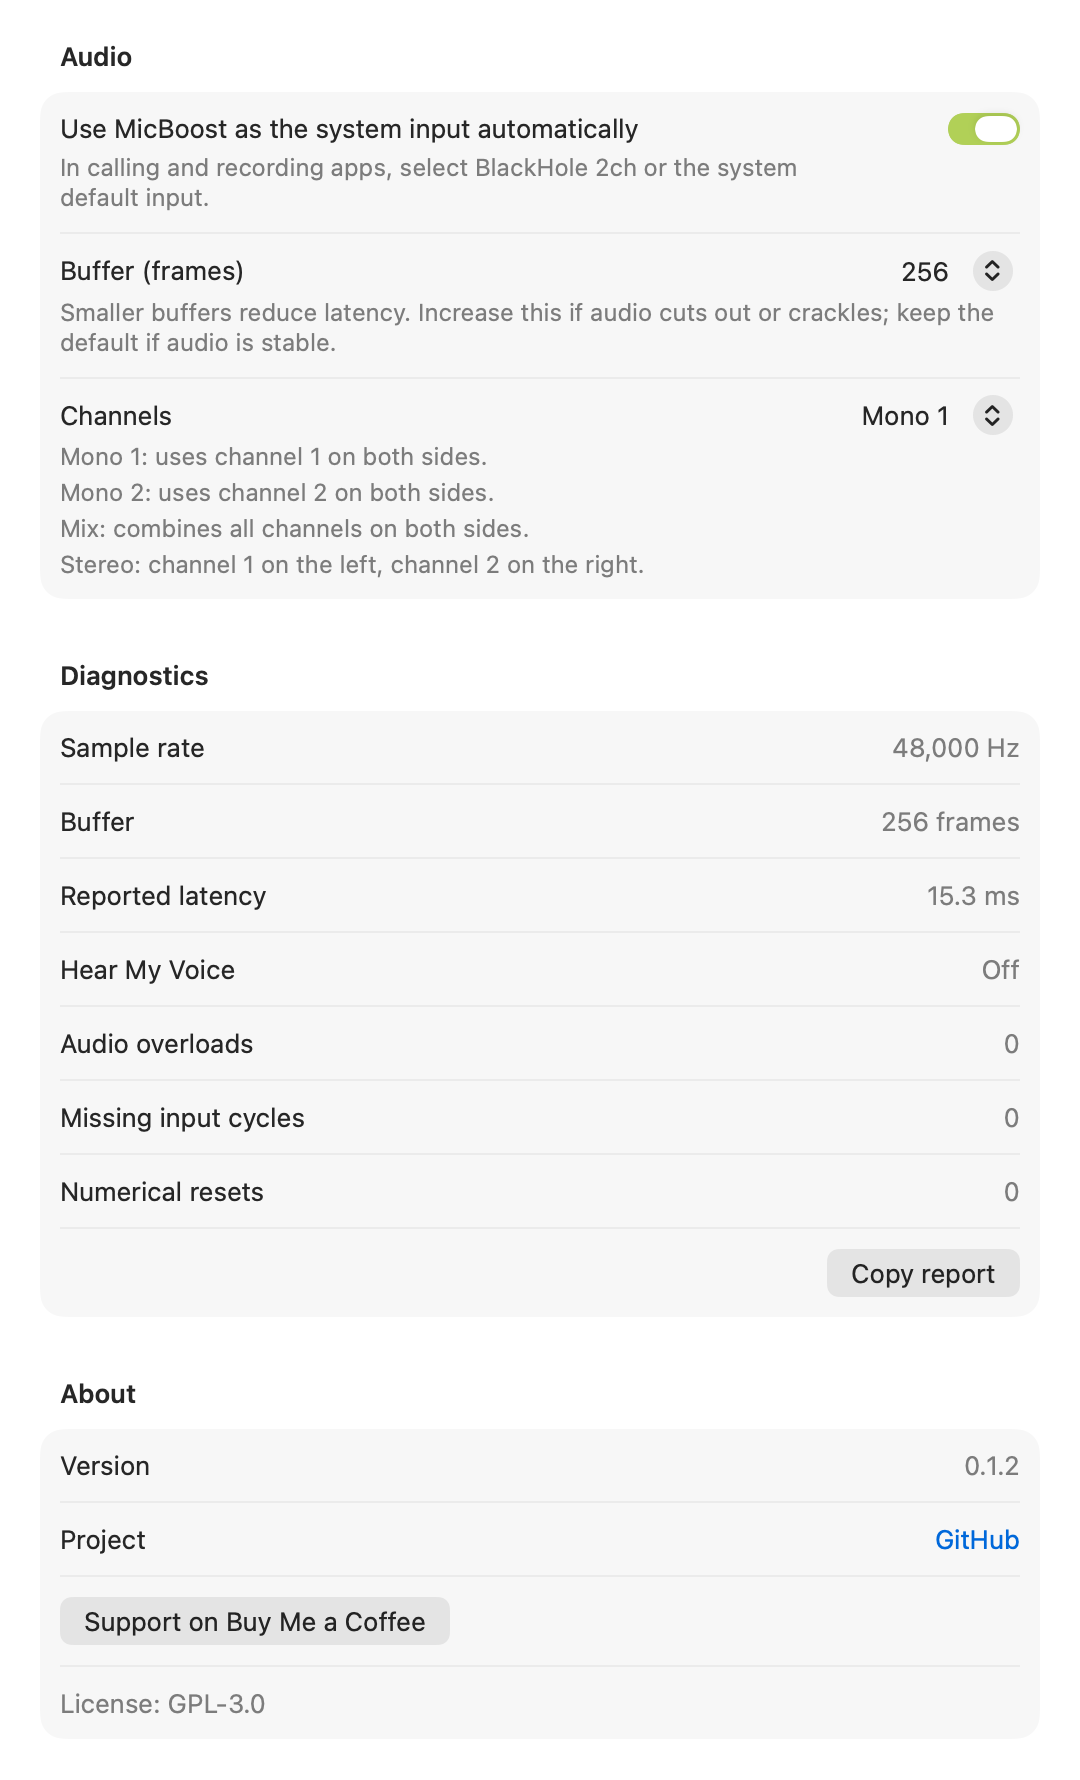
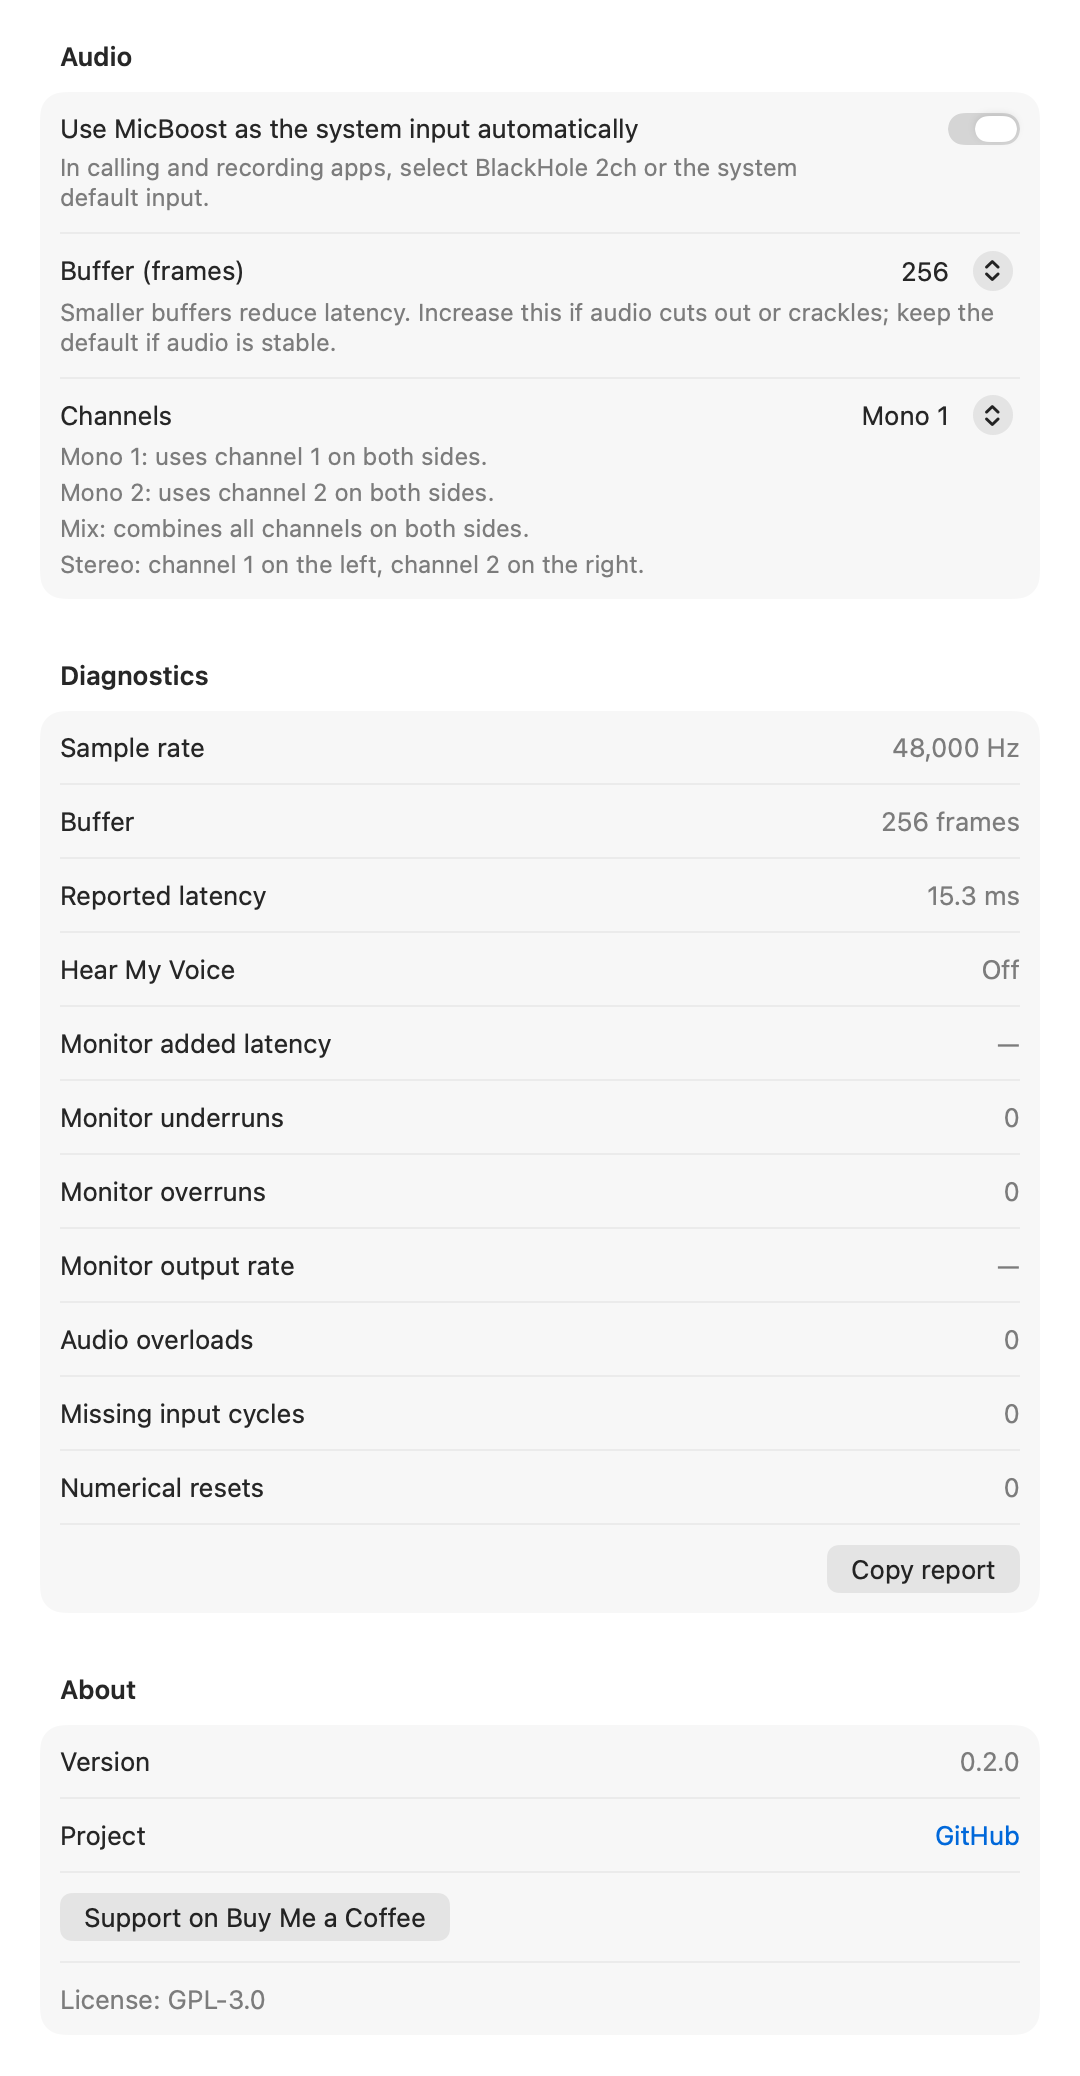
Document system monitor conversion and offline verification

diff --git a/docs/testing.md b/docs/testing.md
@@ -74,7 +74,7 @@ CLI para verificar o hardware. `run` e `latency` aceitam `--gain-db N`, `--mute`
 | `micboost-diag run --input <uid> [--buffer N] [--seconds N] [--monitor --monitor-silent]` | Roda o motor sem UI (mesmo `EngineController` do app), imprimindo estado e contadores a cada segundo e cada transição de estado com o instante. Não altera a entrada ou saída padrão; integração com a política de entrada padrão fica para o app |
 | `micboost-diag capture --device <uid> --seconds N --out file.wav` | Grava a entrada bruta de um dispositivo |
 | `micboost-diag latency --input <uid> [--trials N]` | Mede a latência adicional (método abaixo) |
-| `micboost-diag monitor-latency --input <uid> [--output <uid>] [--buffer N] [--trials N]` | Mede silenciosamente a latência adicionada pelo MicBoost (fonte → BlackHole com monitor no agregado) e imprime a estimativa física total como contexto, [método abaixo](#medição-de-latência-do-monitor). Sem `--output`, usa a saída padrão; exige mantenedor presente se a saída forem os alto-falantes do Mac |
+| `micboost-diag monitor-latency --input <uid> [--output <uid>] [--buffer N] [--seconds N]` | Mede silenciosamente a latência adicionada do monitor pelos timestamps do callback, ocupação, correção e underruns/overruns; imprime a estimativa física total como contexto, [método abaixo](#medição-de-latência-do-monitor). Sem `--output`, usa a saída padrão; exige mantenedor presente se a saída forem os alto-falantes do Mac |
 | `micboost-diag soak --input <uid> [--minutes N]` (padrão 20) | Ensaio de estabilidade (abaixo) |
 
 `set-rate` limita a taxa às `AvailableNominalSampleRates` do dispositivo, escreve `kAudioDevicePropertyNominalSampleRate` e espera até 1 s pelo valor aplicado, porque a HAL aplica a mudança de forma assíncrona. Se o dispositivo mantiver outra taxa (por exemplo, enquanto é subdispositivo de um agregado em uso), imprime o valor real e sai com erro. `run` imprime uma linha `event state=… t_ms=…` por transição, o que dá o tempo de retorno a `running`.
@@ -162,69 +162,61 @@ Preparação para todos os itens: app aberto com processamento ligado, microfone
 
 ## Resultados registrados
 
-### Modo monitor — 04/11/2026
+### Fila e conversão do monitor — 04/11/2026
 
-MacBook Neo, fonte `BuiltInMicrophoneDevice`, saída padrão `BuiltInSpeakerDevice`,
-48 kHz. Os ensaios com monitor silencioso e a escuta manual estão **pendentes** de
-sessão com o mantenedor. Nenhum ensaio com monitor é autorizado sem sua presença
-quando a saída forem os alto-falantes do Mac.
+Verificação **offline**, sem dispositivo de saída, pela cadeia C → Varispeed → AUConverter,
+com senoide de 1 kHz a amplitude 0,25. O teste ajusta a Varispeed durante a renderização
+para ambos os sinais de correção e volta ao valor analisado antes da janela de medição.
+THD+N calculado por ajuste de seno/cosseno de 1 segundo; frequência esperada inclui a
+correção. Nenhum comando com monitor foi executado em hardware.
 
-Decomposição somente leitura por `swift run micboost-diag devices`:
-
-| Parcela | Dispositivo | Safety | Stream | Total |
+| Conversão | Correção | THD+N | Maior passo na janela | Latência das unidades |
 |---|---:|---:|---:|---:|
-| Entrada interna | 26 | 48 | 1439 | 1513 frames (31,521 ms) |
-| Saída interna | 69 | 48 | 425 | 542 frames (11,292 ms) |
-| Dois buffers de 256 | — | — | — | 512 frames (10,667 ms) |
+| 48 → 44,1 kHz | 0 | −101,73 dB | 0,03559 | 1,354 ms |
+| 48 → 44,1 kHz | −0,5% | −98,45 dB | 0,03542 | 1,354 ms |
+| 48 → 44,1 kHz | +0,5% | −98,50 dB | 0,03577 | 1,354 ms |
+| 44,1 → 48 kHz | 0 | −100,92 dB | 0,03269 | 1,451 ms |
+| 44,1 → 48 kHz | −0,5% | −98,04 dB | 0,03254 | 1,451 ms |
+| 44,1 → 48 kHz | +0,5% | −98,10 dB | 0,03287 | 1,451 ms |
 
-A fórmula reportada soma cada termo uma vez: `(1513 + 542 + 512) / 48 = 53,479 ms`.
-Não há dupla contagem identificada; omitir os streams produziria 14,646 ms e esconderia
-38,833 ms. Teste unitário usa esses valores para impedir regressão.
+Todos abaixo de −60 dB, sem underruns/overruns na renderização offline. Os passos,
+inclusive nas transições de correção, ficaram abaixo de 0,05. Isso verifica a cadeia
+sem dispositivo; não mede a latência da AUHAL em hardware.
 
-O registro acústico de 55,792 ms foi obtido antes da regra que proíbe ensaios
-nos alto-falantes sem o mantenedor e não é evidência de aceitação: inclui a propagação no ar e
-uma segunda captura do eco pelo microfone. A diferença para os ~15,1 ms do caminho
-fonte → BlackHole é compatível principalmente com a latência de captura física
-(31,521 ms) e a saída (11,292 ms), com ressalva de que timestamps e resampling tornam
-essa comparação aproximada. A autocorrelação ficou instável e falhou em seguida
-(correlação 0,130968); não se pode atribuir o excesso ao resampler de drift isoladamente.
+PI puro: 60 s simulados a 48 kHz, passo de 50 ms, alvo 560 frames, correção limitada
+a ±0,5%. Resultado:
 
-Verificação permitida sem monitor:
+| Drift | Ocupação mínima | Máxima | Final | Correção final |
+|---|---:|---:|---:|---:|
+| −0,3% | 480,72 | 572,49 | 560 | −3000 ppm |
+| −200 ppm | 554,72 | 560,84 | 560 | −200 ppm |
+| +200 ppm | 559,16 | 565,29 | 560 | +200 ppm |
+| +0,3% | 547,44 | 639,16 | 560 | +3000 ppm |
+
+Testes da fila verificam fade de 10 ms, silêncio diagnóstico preservando consumo,
+mono, estéreo e canais extras zerados, timestamps sintéticos, underrun, descarte e
+reinício da fila em excesso de ocupação. Testes com HAL falsa verificam partidas,
+paradas, falhas, mudança/perda de saída e reconstrução independente do monitor.
+
+O caminho fonte → BlackHole sem monitor tem como referência o comando anterior
 `swift run micboost-diag latency --input BuiltInMicrophoneDevice --trials 10 --buffer 256`:
-mediana 13,1875 ms, mínimo 13,1875 ms, máximo 13,2083 ms (633–634 frames),
-zero overloads e `input_missing`; `io_delta_ms = 12,7292`. O log existente com
-subdispositivo de monitor registrou fonte → BlackHole em 15,1042 ms de mediana,
-mínimo 15,1042 e máximo 15,1250 ms; `io_delta_ms = 14,6458`. A diferença de
-aproximadamente 1,917 ms aparece também no timing do IOProc, muito menor que os
-~40 ms do valor acústico; não identifica isoladamente custo de drift ou de buffer.
-As condições não foram repetidas com monitor e a comparação não é ensaio controlado.
-Os 13,19 ms sem monitor e os 15,10 ms com o subdispositivo de monitor no ensaio
-anterior à regra são apenas contexto; a aceitação de < 20 ms permanece pendente
-de ensaio com monitor e mantenedor presente.
+mediana 13,1875 ms, mínimo 13,1875 ms e máximo 13,2083 ms, a 48 kHz.
+Não é evidência de aceitação da cadeia de monitor separada.
 
-`swift build` e `swift format lint --strict --recursive Sources Tests Package.swift`
-aprovados; `swift test`: 143 testes (53 UI em 1,256 s, 12 DSP em 0,136 s,
-78 Core em 0,931 s, incluindo um caso conhecido da HAL falsa), total dos targets
-2,323 s sem compilação. Capturas do painel regeneradas com monitor desligado.
-Entrada e saída padrão conferidas ao encerrar: `BuiltInMicrophoneDevice` e
-`BuiltInSpeakerDevice`. Nenhum processo de diagnóstico permaneceu em execução.
+Pendentes com o mantenedor presente: `monitor-latency` silencioso com saída na mesma
+taxa e em 44,1 kHz, mediana adicionada < 20 ms, zero underruns/overruns após o primeiro
+segundo, `run --monitor --monitor-silent` por 60 s, duplex Bluetooth, formato físico
+inteiro e escuta com fones. Nenhum desses ensaios nos alto-falantes do Mac é autorizado
+sem o mantenedor presente e seu pedido explícito.
 
-Para confirmar com o mantenedor: comparar fonte → BlackHole com e sem subdispositivo
-de monitor nos buffers 256 e 128; obter a soma silenciosa por tentativa e os componentes
-HAL durante cada start. Se 256 não atingir a meta, medir 128 e 64, sem mudar o padrão.
-A estimativa física ilustrativa completa usa os termos de entrada que a correlação da ponte
-cancela: `31,5208 + 13,1875 + 11,2917 = 56,0000 ms`, próxima dos 55,792 ms do
-registro acústico anterior à regra. Esse cruzamento explica a ordem de grandeza da
-anomalia; não substitui medição com monitor presente nem prova aceitação. A meta
-< 20 ms se refere somente à ponte medida com monitor no agregado, não a essa soma. Com a ponte
-registrada no ensaio antigo com monitor (15,1042 ms), a soma seria 57,9167 ms; as
-condições diferentes e a instabilidade acústica impedem comparação de precisão.
-
-Pendentes:
-- `swift run micboost-diag monitor-latency --input BuiltInMicrophoneDevice --trials 10 --buffer 256`
-  (e buffers 128/64 conforme necessário), com saída interna e mantenedor presente;
-- `swift run micboost-diag run --input BuiltInMicrophoneDevice --seconds 60 --buffer 256 --monitor --monitor-silent`;
-- escuta com fones, troca de saída e toggle no app com o mantenedor.
+Verificação final: `swift build`, `swift test` e
+`swift format lint --strict --recursive Sources Tests Package.swift` aprovados.
+145 testes: 55 UI em 1,268 s, 16 DSP em 0,116 s e 74 Core em 0,677 s (um caso
+conhecido esperado da HAL falsa); soma de execução dos targets 2,061 s, sem compilação.
+As capturas de ajustes foram regeneradas com monitor desligado. A ferramenta de
+captura não conseguiu ativar seu app nesta sessão; os controles aparecem inativos.
+Entrada/saída padrão conferidas por `micboost-diag devices`: `BuiltInMicrophoneDevice`
+e `BuiltInSpeakerDevice`. Nenhum processo de captura ou diagnóstico ficou rodando.
 
 ### Testes manuais com o mantenedor (2026-11-03/04)
 

diff --git a/docs/audio-engine.md b/docs/audio-engine.md
@@ -144,7 +144,7 @@ Com o monitor ligado, a voz processada sai também na saída padrão do sistema,
 
 - **Fila:** buffer circular SPSC estéreo de Float32, pré-alocado em `mb_engine_create` com capacidade fixa de 8192 frames na taxa do motor. O IOProc do motor escreve só enquanto o atômico `monitor_enabled` estiver ligado; índices de leitura e escrita são atômicos com ordem acquire/release. Cada bloco escrito leva o `mHostTime` do instante de entrada (`inInputTime`) do seu primeiro frame, para a medição de latência.
 - **Cadeia do sistema:** AUHAL na saída de monitor (`kAudioOutputUnitProperty_CurrentDevice`, entrada desabilitada, saída habilitada), com formato do cliente Float32 não intercalado, 2 canais, na taxa do motor; o AUHAL converte a taxa e leva L e R aos canais 1 e 2 da saída (`kAudioOutputUnitProperty_ChannelMap`); com uma saída de um canal, o formato do cliente é mono e o callback entrega `(L + R) / 2`. O AUHAL puxa da Varispeed; a Varispeed puxa do callback de render em C, que lê a fila. Unidades criadas, configuradas e inicializadas na fila `engine`; `AudioOutputUnitStart`/`Stop` também.
-- **Callback de render:** função C (`mb_monitor_render`) com contexto `mb_monitor`, criado na fila `engine` antes de iniciar a AUHAL e liberado só depois de `AudioOutputUnitStop` e `AudioUnitUninitialize`. Segue as regras do IOProc: só C, sem alocação, locks, logs ou HAL. Escreve silêncio e incrementa `monitor_underruns` quando a fila não tem frames suficientes; aplica fade-in de 10 ms ao iniciar e fade-out de 10 ms antes de parar; com o atômico de diagnóstico silencioso, entrega zeros sem alterar ocupação nem timing.
+- **Callback de render:** função C (`mb_monitor_render`) com contexto `mb_monitor`, criado na fila `engine` antes de iniciar a AUHAL e liberado só depois de `AudioOutputUnitStop` e `AudioUnitUninitialize`. A fila tem posse compartilhada entre motor e contexto do monitor; se a limpeza das unidades falhar, o contexto e a fila permanecem válidos para uma nova tentativa, sem impedir a reconstrução do motor. Segue as regras do IOProc: só C, sem alocação, locks, logs ou HAL. Escreve silêncio e incrementa `monitor_underruns` quando a fila não tem frames suficientes; aplica fade-in de 10 ms ao iniciar e fade-out de 10 ms antes de parar; com o atômico de diagnóstico silencioso, entrega zeros sem alterar ocupação nem timing.
 - **Controle de ocupação:** alvo = buffer do motor + buffer da saída (convertido para frames do motor) + 1 ms. Um controlador PI lento (constante ≈ 1 s), fora da thread de áudio (fila `engine`, a 20 Hz), lê a ocupação por atômico e ajusta `kVarispeedParam_PlaybackRate` em até ±0,5 % com `AudioUnitSetParameter`. Fila cheia: o produtor descarta o excesso mais antigo e incrementa `monitor_overruns`; ocupação afastada do alvo em mais de metade da capacidade: o callback reinicia a fila no alvo (contado como overrun). A partida preenche a fila até o alvo com silêncio.
 - **Qualidade:** a do conversor do sistema na configuração padrão do AUHAL; verificada nos testes offline da cadeia ([testing.md](testing.md#fila-e-conversão-do-monitor-micboostcoretests)).
 

diff --git a/docs/architecture.md b/docs/architecture.md
@@ -102,7 +102,7 @@ stopped ──start──▶ starting ──ok──▶ running
 - `DeviceService` publica `[AudioDevice]` de entrada elegíveis (ver exclusões em [audio-engine.md](audio-engine.md#enumeração-e-elegibilidade)), o BlackHole detectado (se houver) e o UID da entrada padrão atual.
 - `Settings`: preferências persistidas, com `EQSettings` (`low`, `mid`, `high`) e `ChannelSelection` (`auto`, `mono(canal)`, `monoMix`, `stereo(primeiroCanal)`, canais baseados em 1). `SettingsStore` é o actor que as lê e grava ([Persistência](#persistência)).
 - `DefaultInputManager`: aplica a [política de entrada padrão](audio-engine.md#política-de-entrada-padrão-defaultinputmanager) sobre `AudioHardware` e `SettingsStore`, e publica `DefaultInputStatus`.
-- `EngineStatus` (snapshot enviado à UI): `state`, `source: AudioDevice?`, `blackHole: AudioDevice?`, `defaultInput: DefaultInputStatus` (`isBlackHole`, `divergedByUser`, `unknown`), `sampleRate`, `bufferFrames`, `reportedLatencyMs`, `monitor: MonitorStatus` ([audio-engine.md](audio-engine.md#modo-monitor)), contadores (overloads, eventos NaN).
+- `EngineStatus` (snapshot enviado à UI): `state`, `source: AudioDevice?`, `blackHole: AudioDevice?`, `defaultInput: DefaultInputStatus` (`isBlackHole`, `divergedByUser`, `unknown`), `sampleRate`, `bufferFrames`, `reportedLatencyMs`, `monitor: MonitorStatus` ([audio-engine.md](audio-engine.md#modo-monitor)), `monitorOutput` (saída resolvida), `monitorStats` (ocupação, correção, underruns/overruns e timestamp de latência), `lastMonitorFailure` (operação, erro tipado e saída), contadores (overloads, eventos NaN).
 
 ## Persistência
 

diff --git a/README.md b/README.md
@@ -37,7 +37,7 @@ Microsoft Teams, FaceTime, Discord, QuickTime and more.
   <sub>The MicBoost menu: on/off switch, volume, level meters, microphone and equalizer.</sub>
 </p>
 
-Hear your processed voice through your current speakers or headphones with **Hear My Voice**. Use headphones to avoid feedback; monitoring starts off each time you open MicBoost.
+Hear your processed voice through your current speakers or headphones with **Hear My Voice**. It works with any output, including Bluetooth headphones that use a different audio rate. Switching monitoring on or off keeps audio flowing to your apps. Use headphones to avoid feedback; monitoring starts off each time you open MicBoost.
 
 ## What you need
 
@@ -94,6 +94,8 @@ quit MicBoost, your previous microphone comes back.
 - **The MacBook's built-in microphone is off when the lid is closed.**
 
 ## Something's wrong?
+
+If **Hear My Voice** cannot use your output, open Settings → Diagnostics and use **Copy report**. It includes your microphone and output details and the last monitoring error to help investigate the problem.
 
 **macOS says it can't open MicBoost.** See step 4 of [Install](#install).
 
